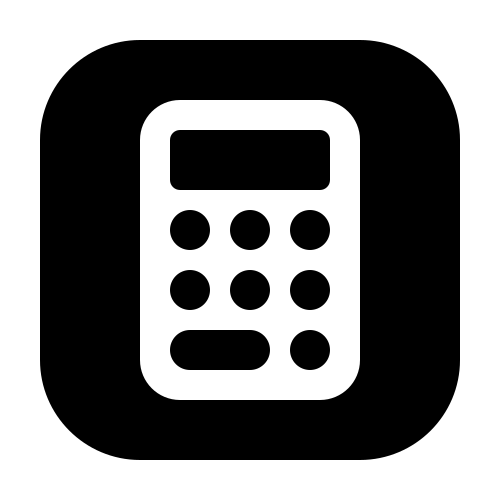
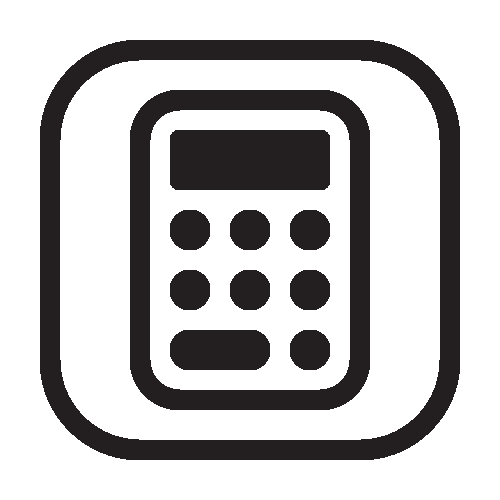
fix: dark mode login img

diff --git a/frontend/src/app/features/auth/pages/login-page/login-page.component.html b/frontend/src/app/features/auth/pages/login-page/login-page.component.html
@@ -31,9 +31,9 @@
     <div class="col-12 col-lg-6">
       <h2 class="text-center mb-5 fw-semibold mt-4" style="font-size: 45px">CALCULADORA <br> Comunitat Energètica Ciutadana</h2>
       <div class="mt-2 w-100 text-center">
-     <!--   <img *ngIf="getThemeName() == 'Light'" src="assets/img/icons8-calculator-500.png" style="width: 50vw; max-width:250px !important">
-        <img *ngIf="getThemeName() != 'Light' " src="assets/img/icons8-calculator-white-500.png" style="width: 50vw; max-width:250px !important">-->
-        <img src="assets/img/icons8-calculator-white-500.png" style="width: 50vw; max-width:250px !important">
+        <img *ngIf="themeStoreService.getCurrentThemeHTML() == 'light'" src="assets/img/icons8-calculator-500.png" style="width: 50vw; max-width:250px !important">
+        <img *ngIf="themeStoreService.getCurrentThemeHTML() != 'light' " src="assets/img/icons8-calculator-white-500.png" style="width: 50vw; max-width:250px !important">
+<!--        <img src="assets/img/icons8-calculator-white-500.png" style="width: 50vw; max-width:250px !important">-->
       </div>
       <h3 class="text-center mb-4 fw-semibold mt-5" style="font-size: 45px">Inici de sessió</h3>
       <app-web2-login-form></app-web2-login-form>

diff --git a/frontend/src/app/features/auth/pages/login-page/login-page.component.ts b/frontend/src/app/features/auth/pages/login-page/login-page.component.ts
@@ -48,7 +48,13 @@ export class LoginPageComponent implements OnDestroy {
     'assets/img/login-4.webp',
   ]
 
-  constructor(private authStore: AuthStoreService, private router: Router, private themeStoreService: ThemeStoreService, private route: ActivatedRoute, private http: HttpClient, private loginActionService: LoginActionService, private authApiService: AuthApiService) {
+  constructor(
+    private authStore: AuthStoreService,
+    private router: Router, protected themeStoreService: ThemeStoreService,
+    private route: ActivatedRoute, private http: HttpClient,
+    private loginActionService: LoginActionService,
+    private authApiService: AuthApiService
+  ) {
     const randNum = Math.floor(Math.random() * this.images.length);
     this.imgSource = this.images[randNum]
     effect(() => {

diff --git a/frontend/src/app/core/core-components/navbar/navbar.component.html b/frontend/src/app/core/core-components/navbar/navbar.component.html
@@ -1,7 +1,6 @@
 <nav class="d-flex flex-shrink-0 text-bg-dark d-none d-md-block bg-primary" style="height: 100vh"
      [ngStyle]="{'width': isShrunk ? '8rem' : '265px'}">
   <div class="text-center py-3 d-flex flex-column h-100">
-
     <a [routerLink]="['/']" class="navbar-brand">
       <img *ngIf="!isShrunk" src="assets/img/navbar/zertipower-logo-blanc-horizontal.png" class="w-100  px-4" alt="zertipwoer-logo">
       <img *ngIf="isShrunk" src="assets/img/navbar/zertipower-logo-blanc.png" class="w-100  px-4" alt="zertipwoer-logo">

diff --git a/frontend/src/app/core/core-components/navbar/navbar.component.ts b/frontend/src/app/core/core-components/navbar/navbar.component.ts
@@ -40,7 +40,7 @@ export class NavbarComponent {
 		protected authStore: AuthStoreService,
 		private authApi: AuthApiService,
 		private router: Router,
-    private themeStoreService: ThemeStoreService,
+    protected themeStoreService: ThemeStoreService,
     private permissionsStoreService: PermissionsStoreService,
 	) {
 

diff --git a/frontend/src/app/shared/infrastructure/components/app-datatable/app-datatable.component.css b/frontend/src/app/shared/infrastructure/components/app-datatable/app-datatable.component.css
@@ -80,8 +80,6 @@ tr{
 .dataTables_scrollHead, td{
   padding: 15px !important;
   border-bottom: 1px solid #525252;
-
-  /*padding-right: 0px !important;*/
 }
 
 .even{

diff --git a/frontend/src/styles.scss b/frontend/src/styles.scss
@@ -255,3 +255,9 @@ $table-border-width: 0;
   color: #aaa;
 }
 
+
+
+.dataTables_scrollHead, td{
+  padding: 10px !important;
+  border-bottom: 1px solid #525252;
+}
